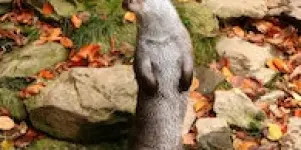
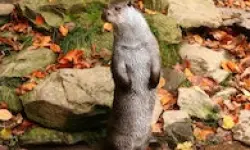
Samples

diff --git a/README.md b/README.md
@@ -69,7 +69,7 @@ ObjectFit.of(...)
 ```scala
 ObjectFit.of(...)
   .mode(ObjectFit.Mode.COVER)
-  .size(250, 250)
+  .size(250, 150)
   .format("webp")
   .scaleUp()
   ```
